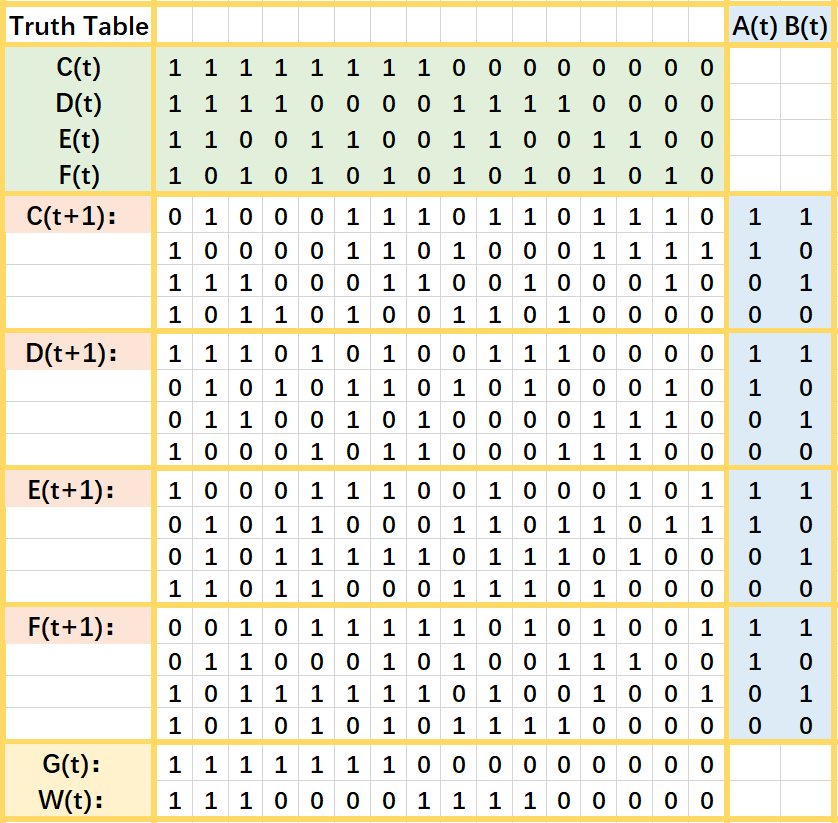
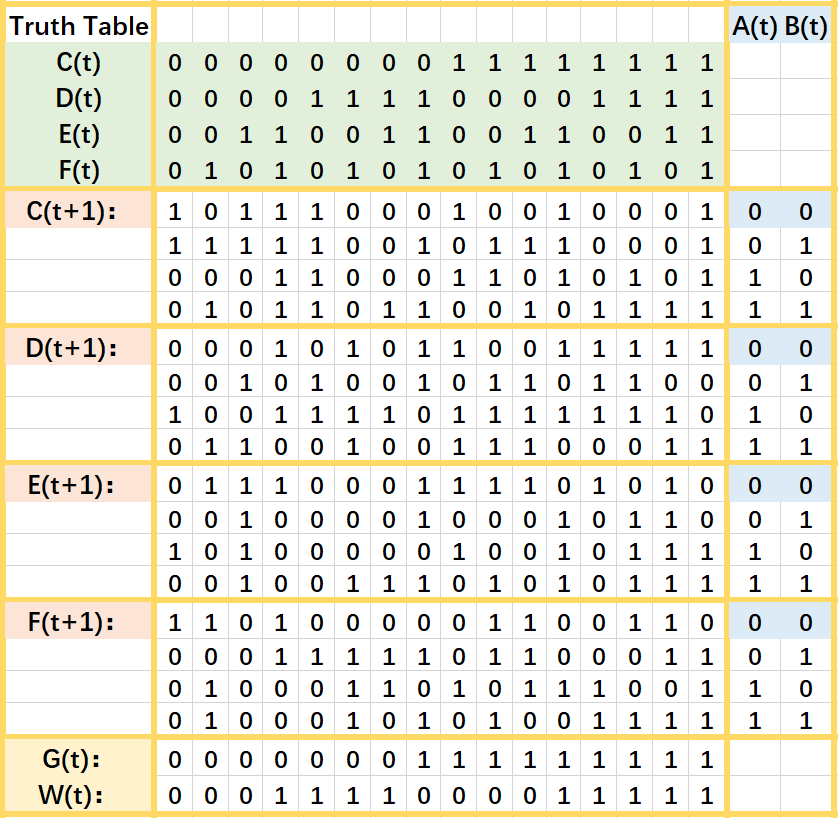
0604
0604

Changed region(s): [[0.0, 0.0306, 0.9928, 0.978], [0.031, 0.7335, 0.1551, 0.7946], [0.0621, 0.9169, 0.1241, 0.9474]]

diff --git a/For journal/sec/preliminaries.tex b/For journal/sec/preliminaries.tex
@@ -2,7 +2,7 @@
 % !TEX root = ../bare_jrnl.tex
 \section{Preliminaries} 
 \label{sec:pre}
-In this section we introduce {\BCNs} and their algebraic forms, as well as the four existing types of observability. 
+In this section we introduce {\BCNs} and the four existing types of observability. 
 We write $\mathbb{B}:=\{0,1\}$. %; $t=0,1,\ldots$ represents the discrete time. 
 
 \subsection{Boolean Control Networks}
@@ -10,35 +10,42 @@ We write $\mathbb{B}:=\{0,1\}$. %; $t=0,1,\ldots$ represents the discrete time.
 A Boolean control network can be defined as a directed graph together with logical equations to describe the updating rules of the nodes' value of the directed graph. The formal definition of \BCN\ is given as follows. 
 
 \tl{this def mixes syntax and semantics; need to rewrite}
-\begin{definition}[Boolean Control Networks, \cite{Ideker2001A}] A \BCN\ consists of %the  topology and the associated updating rules. The topology is captured by 
-	a directed graph which consists of input-nodes ($\mathfrak{i}$), state-nodes ($\mathfrak{s}$), output-nodes ($\mathfrak{o}$), and directed edges which connect nodes. 
+\begin{definition}[Boolean Control Networks, \cite{Ideker2001A}] A \BCN\ %the  topology and the associated updating rules. The topology is captured by 
+	a directed graph which consists of 
 	\begin{itemize}
-	\item Every node in a \BCN\ can take a value from $\{0,1\}$ at a discrete time $t=0, 1, 2,\ldots$ 
+	\item input-nodes: {$\mathsf{i}_1$,\ldots ,$\mathsf{i}_m$};
+	\item state-nodes: {$\mathsf{s}_1$,\ldots ,$\mathsf{s}_n$};
+	\item output-nodes: {$\mathsf{o}_1$,\ldots ,$\mathsf{o}_q$};
+	\item and directed edges which connect nodes. 
+\end{itemize}
 	
-	\item Every directed edge from a state-node $\mathfrak{s}_i$ (or an input-node $\mathfrak{i}_w$) to a state-node $\mathfrak{s}_j$ means that  $\mathfrak{s}_j(t+1)$ is affected by  $\mathfrak{s}_i(t)$ (or $\mathfrak{i}_w(t)$). 
-	
-	\item Every directed edge from a state-node $\mathfrak{s}_i$ to an output-node $\mathfrak{o}_j$ means that   $\mathfrak{o}_j(t)$  is affected by   $\mathfrak{s}_i(t)$.  
-	\end{itemize}
-
-Assuming that the \BCN\ has $n$ state-nodes, $m$ input-nodes and $q$ output-nodes. Then the updating rules of the \BCN\ can be described as following formulas:
+%Assuming that the \BCN\ has $n$ state-nodes, $m$ input-nodes and $q$ output-nodes. 
+And the updating rules of the \BCN:
 \begin{equation}
 \begin{split}
-\mathfrak{s}(t+1)=&f(\mathfrak{i}(t),\mathfrak{s}(t))\\
-\mathfrak{o}(t)=&h(\mathfrak{s}(t))
+\mathsf{s}(t+1)=&f(\mathsf{i}(t),\mathsf{s}(t))\\
+\mathsf{o}(t)=&h(\mathsf{s}(t))
 \end{split}
 \label{equ:1}
 \end{equation}
-where
+
+%Where $\mathbb{B}$ : the set $\{0,1\}$; $t=0,1,\ldots$ represents the discrete time. 
+ \end{definition}
+In the definition we have that in the directed graph
 \begin{itemize}
+	\item $m$, $n$ and $q$ represent the number of input-nodes, state-nodes and output-nodes respectively;
+          \item every node in a \BCN\ can take a value from $\{0,1\}$ at a discrete time $t=0, 1, 2,\ldots$;
+	\item every directed edge from a state-node $\mathfrak{s}_i$ (or an input-node $\mathfrak{i}_w$) to a state-node $\mathfrak{s}_j$ means that  $\mathfrak{s}_j(t+1)$ is affected by $\mathfrak{s}_i(t)$ (or $\mathfrak{i}_w(t)$);	
+	\item every directed edge from a state-node $\mathfrak{s}_i$ to an output-node $\mathfrak{o}_j$ means that   $\mathfrak{o}_j(t)$  is affected by $\mathfrak{s}_i(t)$.  
+	\end{itemize}
+And then, the updating rules explain how do nodes affect each other, thus in the updating rules
+	\begin{itemize}
 	\item $\mathfrak{s}(t)\in \mathbb{B}^n$ is a state which represent the value of all state-nodes at time step $t$; 	
 	\item $\mathfrak{i}(t)\in \mathbb{B}^m$ is an input which represent the value of all input-nodes at time step $t$; 	
 	\item $\mathfrak{o}(t)\in \mathbb{B}^q$ is an output which represent the value of all output-nodes at time step $t$;  
 	\item $f:\mathbb{B}^{n+m}\mapsto \mathbb{B}^n$ and $h:\mathbb{B}^n\mapsto \mathbb{B}^q$ are logical functions that represent the updating rules of the {\em BCN}. 
+	
 \end{itemize}
-%Where $\mathbb{B}$ : the set $\{0,1\}$; $t=0,1,\ldots$ represents the discrete time. 
- \end{definition}
-
-
 
 %In order to better illustrate the definition of BCN, we give an example as follows.
 
@@ -96,11 +103,21 @@ The reason why we use the truth table to describe the updating rules of the \BCN
       \caption{The truth table which describe the updating rules of the \BCN\ shown in Fig.\ref{fig:1}.}
       \label{fig:2}
    \end{figure}
+   \begin{figure}[thpb]
+      \centering
+      \framebox{\parbox{3in}{
+		\centerline{\includegraphics[scale=0.122]{figures/Fig7.png}}
+	}}
+      
+      \caption{The algebraic form of the \BCN\ shown in Fig.\ref{fig:1}.}
+      \label{fig:6}
+   \end{figure}
    \label{exa:2}
 \end{example}   
 
 
 %==============================================================================================================
+\begin{comment}
 \subsection{The algebraic forms of \BCNs}
 \tl{is this form essential to present the results?!}
 %\ly{ As mentioned in the {\em Section \ref{sec:intro}}, 
@@ -202,8 +219,9 @@ And then we have its algebraic form shown by table (Fig.\ref{fig:6}) that $\math
    \end{figure}
    \label{exa:3}
 \end{example}   
-
+\end{comment}
 %=======================================================================
+
 \subsection{Four existing observability of \BCNs}
 %After introducing the algebraic forms of \BCNs, 
 In this section, we introduce the four existing definitions of observability of \BCNs. %. In order to introduce four existing types of observability of \BCNs, 
@@ -241,9 +259,9 @@ is an input sequence,
   
   
   From the algebraic forms of \BCNs, in the formula (\ref{equ:5}), for any $1\le t \le |\mathsf{I}|$ we have 
- \[\mathsf{s}(t)=L\ltimes\mathsf{i}({t-1})\ltimes\mathsf{s}({t-1}).\] 
+ \[\mathsf{s}(t)=f(\mathsf{i}(t-1),\mathsf{s}(t-1)).\] 
  In the formula (\ref{equ:5}) and formula (\ref{equ:6}), for any $1\le t \le |\mathsf{I}|$ we have  
- \[\mathsf{o}(t)=H\ltimes\mathsf{s}(t)=H\ltimes L\ltimes\mathsf{i}({t-1})\ltimes\mathsf{s}({t-1}).\] 
+ \[\mathsf{o}(t)=h(\mathsf{s}(t))=h(f(\mathsf{i}(t-1),\mathsf{s}(t-1))).\] 
 
 These mappings describe the relations of initial state ($\mathsf{s}(0)$), input sequence ($\mathsf{I}$), state sequence ($L^k_{\mathsf{s}(0)}(\mathsf{I})$ and $L^{\infty}_{\mathsf{s}(0)}(\mathsf{I})$) and output sequence ($(HL)^k_{\mathsf{s}(0)}(\mathsf{I})$ and $(HL)^{\infty}_{\mathsf{s}(0)}(\mathsf{I})$). 
 

diff --git a/For journal/sec/introduction.tex b/For journal/sec/introduction.tex
@@ -105,15 +105,15 @@ As  mentioned before, there are four types of observability.
 \tl{from these descriptions, it is hard to tell the differences of the definitions}
 
 \begin{enumerate}
-	\item The first type of observability was proposed in 2009 \cite{cheng2009controllability}, and it states that every $\mathfrak{s}^{i}(0)$ can be determined by an $\mathfrak{i}(0)$$\mathfrak{i}(1)\ldots$$\mathfrak{i}(k-1)$. Because for every $\mathfrak{s}^{j}(0)\ne$$\mathfrak{s}^{i}(0)$, the corresponding $\mathfrak{o}^{i}(0)$$\mathfrak{o}^{i}(1)\ldots$$\mathfrak{o}^{i}(k)$ of $\mathfrak{s}^{i}(0)$ is different from the corresponding $\mathfrak{o}^{j}(0)$$\mathfrak{o}^{j}(1)\ldots$$\mathfrak{o}^{j}(k)$ of $\mathfrak{s}^{j}(0)$. %Therefore, we can distinguish the \State$^{i}(0)$  by this input sequence, and then we can determine whether \State$(0)=$\State$^{i}(0)$.
+	\item The first type of observability was proposed in 2009 \cite{cheng2009controllability}, and it states that for every $\mathfrak{s}^{i}(0)$ there is an $\mathfrak{i}(0)$$\mathfrak{i}(1)\ldots$$\mathfrak{i}(k-1)$ that can be used to distinguish it from other types of initial states. Because for this $\mathfrak{i}(0)$$\mathfrak{i}(1)\ldots$$\mathfrak{i}(k-1)$, for every $\mathfrak{s}^{j}(0)\ne$$\mathfrak{s}^{i}(0)$, the corresponding $\mathfrak{o}^{i}(0)$$\mathfrak{o}^{i}(1)\ldots$$\mathfrak{o}^{i}(k)$ of $\mathfrak{s}^{i}(0)$ is different from the corresponding $\mathfrak{o}^{j}(0)$$\mathfrak{o}^{j}(1)\ldots$$\mathfrak{o}^{j}(k)$ of $\mathfrak{s}^{j}(0)$. %Therefore, we can distinguish the \State$^{i}(0)$  by this input sequence, and then we can determine whether \State$(0)=$\State$^{i}(0)$.
 	%------------------------------
 	\item 
-	The second observability was proposed in 2010 \cite{Zhao2010Input}, and it is determined in \cite{Li2015Controllability}. It stands that for every two distinct $\mathfrak{s}^{i}(0)$ and $\mathfrak{s}^{j}(0)$, there exists an $\mathfrak{i}(0)$$\mathfrak{i}(1)\ldots$$\mathfrak{i}(k-1)$ that can distinguish them. Because their corresponding $\mathfrak{o}^{i}(0)$$\mathfrak{o}^{i}(1)\ldots$$\mathfrak{o}^{i}(k)$ and $\mathfrak{o}^{j}(0)$$\mathfrak{o}^{j}(1)\ldots$$\mathfrak{o}^{j}(k)$ are different. %Therefore, we can distinguish \State$^{i}(0)$ and \State$^{j}(0)$ by this input sequence, and then we can determine whether the initial state \State$(0)$ is \State$^{i}(0)$ or \State$^{j}(0)$.	
-	\item The third observability proposed in 2011 \cite{Cheng2011Identification}, and it states that there is an $\mathfrak{i}(0)$$\mathfrak{i}(1)\ldots$$\mathfrak{i}(k-1)$ that determines $\mathfrak{s}(0)$. Because for every two distinct $\mathfrak{s}^{i}(0)$ and $\mathfrak{s}^{j}(0)$, their corresponding $\mathfrak{o}^{i}(0)$$\mathfrak{o}^{i}(1)\ldots$$\mathfrak{o}^{i}(k)$ and $\mathfrak{o}^{j}(0)$$\mathfrak{o}^{j}(1)\ldots$$\mathfrak{o}^{j}(k)$ are different.
+	The second observability was proposed in 2010 \cite{Zhao2010Input}, and it is determined in \cite{Li2015Controllability}. It stands that for every two distinct $\mathfrak{s}^{i}(0)$ and $\mathfrak{s}^{j}(0)$, there exists an $\mathfrak{i}(0)$$\mathfrak{i}(1)\ldots$$\mathfrak{i}(k-1)$ that can be used to distinguish them. Because for this $\mathfrak{i}(0)$$\mathfrak{i}(1)\ldots$$\mathfrak{i}(k-1)$, the corresponding $\mathfrak{o}^{i}(0)$$\mathfrak{o}^{i}(1)\ldots$$\mathfrak{o}^{i}(k)$ of $\mathfrak{s}^{i}(0)$ and the corresponding $\mathfrak{o}^{j}(0)$$\mathfrak{o}^{j}(1)\ldots$$\mathfrak{o}^{j}(k)$ of $\mathfrak{s}^{j}(0)$ are different. %Therefore, we can distinguish \State$^{i}(0)$ and \State$^{j}(0)$ by this input sequence, and then we can determine whether the initial state \State$(0)$ is \State$^{i}(0)$ or \State$^{j}(0)$.	
+	\item The third observability proposed in 2011 \cite{Cheng2011Identification}, and it states that there is an $\mathfrak{i}(0)$$\mathfrak{i}(1)\ldots$$\mathfrak{i}(k-1)$ that determines $\mathfrak{s}(0)$. Because for this $\mathfrak{i}(0)$$\mathfrak{i}(1)\ldots$$\mathfrak{i}(k-1)$, for every two distinct $\mathfrak{s}^{i}(0)$ and $\mathfrak{s}^{j}(0)$, the corresponding $\mathfrak{o}^{i}(0)$$\mathfrak{o}^{i}(1)\ldots$$\mathfrak{o}^{i}(k)$ of $\mathfrak{s}^{i}(0)$ is different from the corresponding $\mathfrak{o}^{j}(0)$$\mathfrak{o}^{j}(1)\ldots$$\mathfrak{o}^{j}(k)$ of $\mathfrak{s}^{j}(0)$.
 	
-	\item  The fourth observability proposed in 2013 \cite{Fornasini2013Observability} is essentially the observability of linear control systems, i.e., that every sufficient long $\mathfrak{i}^{i}(0),$ $\mathfrak{i}^{i}(1),\ldots,$ $\mathfrak{i}^{i}(k-1)$ can determine $\mathfrak{s}(0)$. Because for every two distinct $\mathfrak{s}^{i}(0)$ and $\mathfrak{s}^{j}(0)$, their corresponding $\mathfrak{o}^{i}(0)$$\mathfrak{o}^{i}(1)\ldots$$\mathfrak{o}^{i}(k)$ and $\mathfrak{o}^{j}(0)$$\mathfrak{o}^{j}(1)\ldots$$\mathfrak{o}^{j}(k)$ are different. %Therefore, we can determine the initial state of the \BCN\ by every sufficient long input sequence for every initial state \State$(0)$.
+	\item  The fourth observability proposed in 2013 \cite{Fornasini2013Observability} is essentially the observability of linear control systems, i.e., that every sufficient long $\mathfrak{i}^{x}(0)$$\mathfrak{i}^{x}(1)\ldots$ $\mathfrak{i}^{x}(k-1)$ can determine $\mathfrak{s}(0)$. Because for this $\mathfrak{i}^{x}(0)$$\mathfrak{i}^{x}(1)\ldots$ $\mathfrak{i}^{x}(k-1)$, for every two distinct $\mathfrak{s}^{i}(0)$ and $\mathfrak{s}^{j}(0)$, the corresponding $\mathfrak{o}^{i}(0)$$\mathfrak{o}^{i}(1)\ldots$$\mathfrak{o}^{i}(k)$ of $\mathfrak{s}^{i}(0)$ is different from the corresponding $\mathfrak{o}^{j}(0)$$\mathfrak{o}^{j}(1)\ldots$$\mathfrak{o}^{j}(k)$ of $\mathfrak{s}^{j}(0)$.%Therefore, we can determine the initial state of the \BCN\ by every sufficient long input sequence for every initial state \State$(0)$.
 \end{enumerate}
- The formal definition will presented completely in {\em Section \ref{sec:pre}}.
+ The formal definition will be presented completely in {\em Section \ref{sec:pre}}.
 %\tl{can you state the four types observability clearly and formally here?}
 
 %\rev{****input s equence***}
